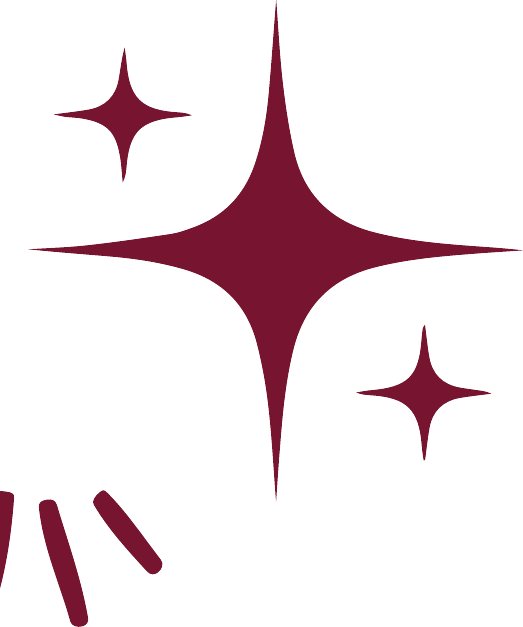
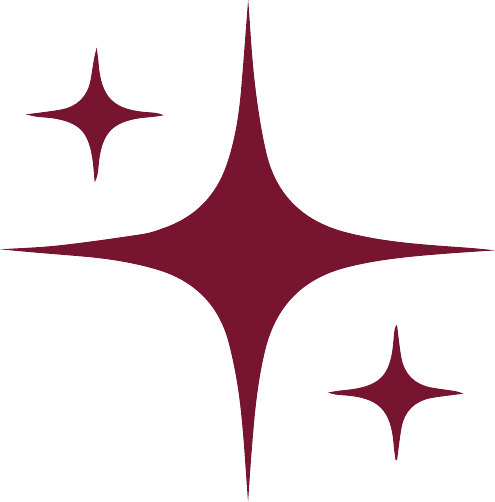
Remove pincel e raios dos elementos decorativos; limpa os brilhos
Claude-Session: https://claude.ai/code/session_01A9z5mCxmroQz9shXSvNyuT

diff --git a/app/review/[token]/page.tsx b/app/review/[token]/page.tsx
@@ -43,7 +43,6 @@ export default async function ReviewHome({ params, searchParams }: { params: Pro
       {/* Boas-vindas */}
       <section className="relative mb-10 overflow-hidden rounded-[2rem] bg-blush px-6 py-10 sm:px-12 sm:py-14">
         <BrandElement name="sparkles" tone="wine" className="absolute right-6 top-6 w-14 opacity-70 sm:w-20" />
-        <BrandElement name="paintbrush" tone="wine" className="absolute -bottom-3 right-6 hidden w-28 opacity-20 sm:block" />
         <h1 className="script text-6xl text-wine sm:text-7xl">Olá, {firstName(client.contact_name || client.company_name)} ♡</h1>
         <p className="mt-5 max-w-xl text-[0.98rem] leading-relaxed text-ink/80">
           Aqui você encontra todos os conteúdos que preparamos para sua marca. Analise cada publicação com calma e utilize os botões de aprovação ou alteração para enviar seu feedback.

diff --git a/app/admin/layout.tsx b/app/admin/layout.tsx
@@ -2,7 +2,7 @@ import Link from 'next/link';
 import { LogOut } from 'lucide-react';
 import { requireUser } from '@/lib/data/clients';
 import { signOut } from '@/lib/actions/auth';
-import { BrandElement, Logo } from '@/components/brand/Brand';
+import { Logo } from '@/components/brand/Brand';
 import { NavLinks } from '@/components/admin/NavLinks';
 
 export const dynamic = 'force-dynamic';
@@ -19,7 +19,6 @@ export default async function AdminLayout({ children }: { children: React.ReactN
         <div className="mt-10">
           <NavLinks orientation="vertical" />
         </div>
-        <BrandElement name="paintbrush" className="pointer-events-none absolute -bottom-4 -right-6 w-36 opacity-25" />
         <div className="relative mt-auto pt-10">
           <p className="mb-3 truncate text-xs text-white/60">{user.email}</p>
           <form action={signOut}>

diff --git a/app/login/page.tsx b/app/login/page.tsx
@@ -10,7 +10,6 @@ export default function LoginPage() {
       <section className="relative flex flex-col items-center justify-center px-8 py-16 text-center text-white lg:py-0">
         <Logo tone="light" withTagline className="w-[min(86%,30rem)]" />
         <p className="script mt-8 text-4xl text-blush sm:text-5xl">portal de aprovação</p>
-        <BrandElement name="paintbrush" className="absolute -bottom-6 left-6 hidden w-40 opacity-30 lg:block" />
         <BrandElement name="sparkles" className="absolute right-10 top-10 hidden w-20 opacity-60 lg:block" />
       </section>
       <section className="flex items-center justify-center bg-blush-soft px-6 py-14 lg:rounded-l-[3rem]">

diff --git a/components/brand/Brand.tsx b/components/brand/Brand.tsx
@@ -24,9 +24,9 @@ export function Sparkle({ className, animate = false }: { className?: string; an
   );
 }
 
-type ElementName = 'brush-stroke' | 'paintbrush' | 'sparkles' | 'rays';
+type ElementName = 'brush-stroke' | 'sparkles';
 
-/** Elementos gráficos originais do PDF (pincelada, pincel, brilhos). */
+/** Elementos gráficos originais do PDF (pincelada e brilhos). */
 export function BrandElement({
   name,
   tone = 'light',

diff --git a/README.md b/README.md
@@ -10,7 +10,7 @@ Sistema completo para cadastrar conteúdos por cliente, gerar um **link exclusiv
 |---|---|
 | Cores | Vinho `#771430`, Grafite `#282828`, Rosé `#ffe7e5`, Branco — tokens em `app/globals.css` |
 | Tipografia | **Against** (títulos) · **Emitha** (saudações em script) · **Poppins Light** (texto) |
-| Logo e elementos | Logo, pincel, pincelada, brilhos e raios recortados do PDF → `public/brand/` (versões branca e vinho) |
+| Logo e elementos | Logo, pincelada e brilhos recortados do PDF → `public/brand/` (versões branca e vinho) |
 | Formas | Botões em pílula, cards com cantos 24px e borda fina vinho, poucas sombras, estrela de 4 pontas como detalhe |
 
 > **Fontes:** Against e Emitha são licenciadas e não estão no Google Fonts. Enquanto não forem adicionadas, o sistema usa *Bodoni Moda* e *Mrs Saint Delafield* como substitutas. Para usar as originais, coloque `against.woff2` e `emitha.woff2` em `public/fonts/` (já referenciadas em `globals.css`).
